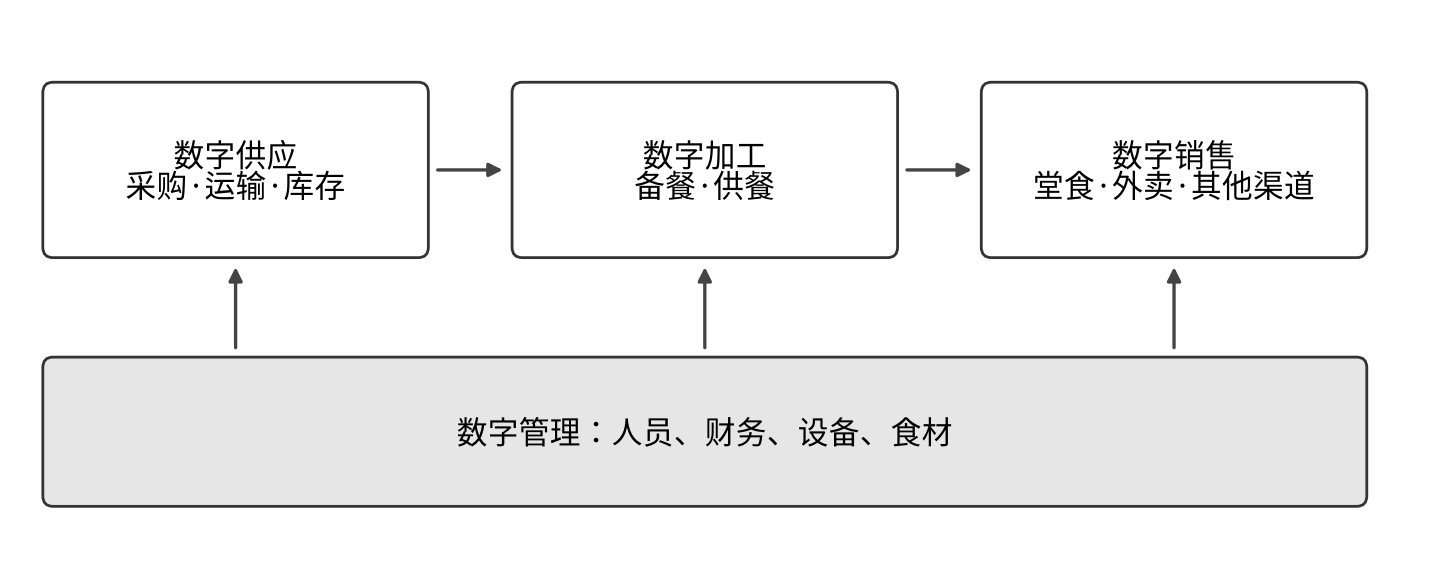
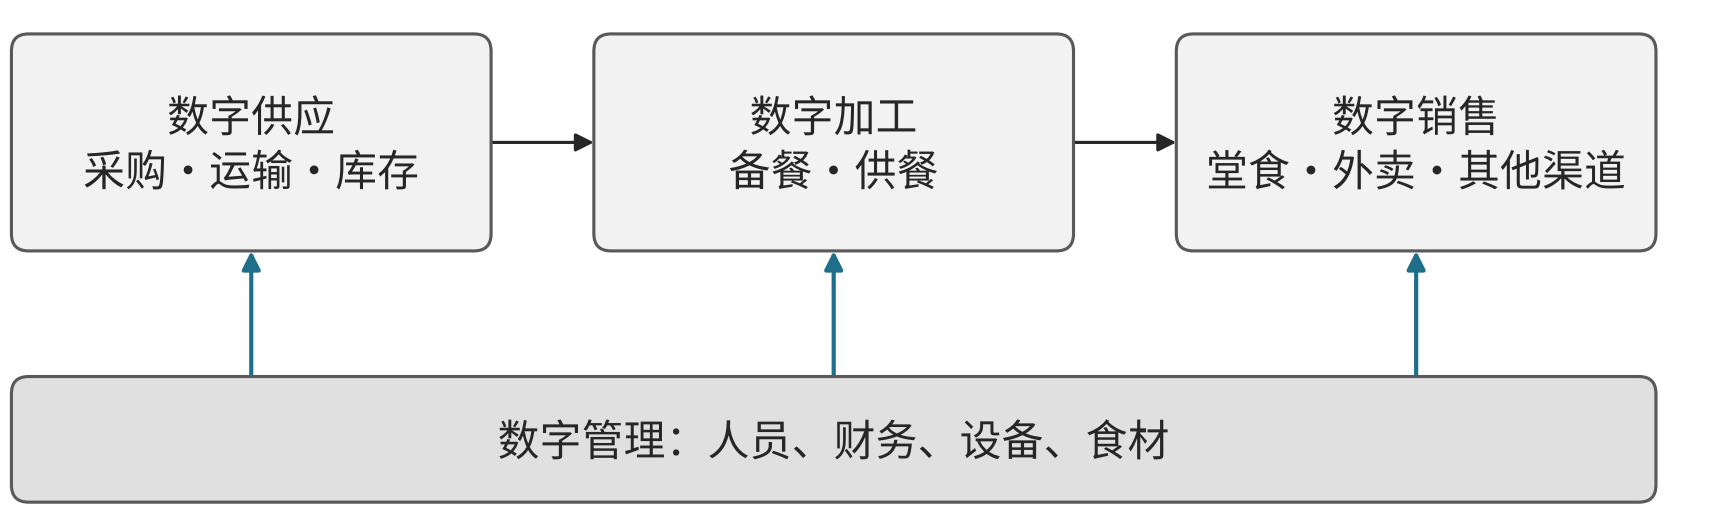
fig: 中册 9 幅重绘示意图按 1713px/300dpi 经 figlib 重出（图10-1、10-2、17-1、17-2、17-6、18-3、18-4、18-5、20-1）
- scripts/redraw-middle-figures.py 改用 figlib：成图 14.504cm、300dpi，图内文字 ≥9pt，灰阶加 #1F6F8B，不画图题；文字内容不变
- 更新 sources.json 中 9 条 asset_sha256
- 前后对比图：docs/figure-compare/dpi9/

diff --git a/scripts/redraw-middle-figures.py b/scripts/redraw-middle-figures.py
@@ -1,56 +1,77 @@
-import matplotlib; matplotlib.use("Agg")
-import matplotlib.pyplot as plt
-from matplotlib.patches import FancyBboxPatch
-from matplotlib import font_manager as fm
-fp="/usr/share/fonts/opentype/noto/NotoSansCJK-Regular.ttc"
-fm.fontManager.addfont(fp); plt.rcParams["font.family"]=fm.FontProperties(fname=fp).get_name()
-import os; OUT=os.path.join(os.path.dirname(__file__),"..","中册-行业解决方案","assets")+"/"
-def box(ax,x,y,w,h,t,fc="white",fs=11,bold=False):
-    ax.add_patch(FancyBboxPatch((x,y),w,h,boxstyle="round,pad=0.02,rounding_size=0.08",fc=fc,ec="#333",lw=1))
-    ax.text(x+w/2,y+h/2,t,ha="center",va="center",fontsize=fs,weight="bold" if bold else "normal",wrap=True)
-def arrow(ax,x1,y1,x2,y2):
-    ax.annotate("",(x2,y2),(x1,y1),arrowprops=dict(arrowstyle="-|>",color="#444",lw=1.2))
-def layers(name,rows,side=None,note=None):
-    # rows: top->bottom list of (label,[items])
-    W=10+(2 if side else 0); n=len(rows)
-    fig,ax=plt.subplots(figsize=(W*0.8,(n*1.5+0.6)*0.8)); ax.set_xlim(0,W); ax.set_ylim(0,n*1.5+0.4); ax.axis("off")
-    for i,(lab,items) in enumerate(rows):
-        y=(n-1-i)*1.5+0.3
-        box(ax,0.1,y,1.9,1.1,lab,fc="#d9d9d9",bold=True)
-        k=len(items); w=(7.7-0.15*(k-1))/k
-        for j,it in enumerate(items): box(ax,2.2+j*(w+0.15),y+0.1,w,0.9,it,fs=10)
-        if i<n-1: arrow(ax,6.05,y-0.05,6.05,y+0.05) 
-    if side:
-        lab,items=side; H=n*1.5-0.4
-        box(ax,10.2,0.3,1.7,H,"",fc="#efefef")
-        ax.text(11.05,0.3+H-0.3,lab,ha="center",va="top",fontsize=11,weight="bold")
-        for j,it in enumerate(items): ax.text(11.05,0.3+H-0.9-j*0.55,it,ha="center",va="top",fontsize=10)
-    fig.savefig(OUT+name,dpi=200,bbox_inches="tight",facecolor="white"); plt.close(fig)
+"""中册 9 幅"重绘"示意图（redraw-*.png）。按全书配图规范经 figlib 绘制：
+成图宽 14.504cm、300dpi（1713px），图内文字不小于 9pt，黑白灰加强调色 #1F6F8B，Noto Sans CJK SC，图题不入图。
+用法：python3 scripts/redraw-middle-figures.py（结尾打印"无残留溢出"才算通过）。"""
+import os, sys
+HERE = os.path.dirname(os.path.abspath(__file__))
+sys.path.insert(0, os.path.join(HERE, 'figures'))
+import figlib
+from figlib import Fig, FILL2, ACCENT, LW
+OUT = os.path.join(HERE, '..', '中册-行业解决方案', 'assets') + '/'
 
-layers("redraw-数字金融体系示意.png",[("服务",["渠道与客户服务","业务流程","运营支持"]),("能力",["数据治理","专业模型与业务规则","研发运维"]),("数字基础",["网络与存储","数据库","身份与接口"])],side=("治理",["安全","合规","风险管理","数据生命周期"]))
-layers("redraw-智慧农业三层框架示意.png",[("应用层",["生产管理","产销与流通","溯源与社会化服务"]),("运算层",["数据","农业知识","算法与专业模型"]),("感知与执行层",["环境与遥感感知","农机与执行器","市场信息"])])
-layers("redraw-数字乡村框架示意.png",[("建设领域",["智慧农业","乡村产业","乡村治理","公共服务"]),("两大基础",["数字基础设施","数据资源"])])
-layers("redraw-智能云服务分层示意.png",[("AISaaS",["面向具体应用"]),("MaaS",["模型能力服务化"]),("AIPaaS",["数据","模型开发","部署流程"]),("AIIaaS",["算力","网络","存储"])])
-layers("redraw-实时互动技术构成示意.png",[("共生技术",["终端呈现","课件与白板","交互操作"]),("专业组件",["音视频处理","信令","数据处理"]),("专有基础设施",["实时网络","边缘计算"])])
-layers("redraw-数字政府一体化框架示意.png",[("驱动与牵引",["体制机制驱动","履职场景牵引"]),("业务应用",["一网通办","一网统管","一网协同"]),("两大支撑",["政务数据","政务平台"])],side=("两大保障",["运维运营","安全防护"]))
+
+def done(f, name):
+    f.fit(name); f.save(OUT + name); print(name)
+
+
+def layers(name, rows, side=None):
+    """rows 自上而下 (层名, [条目])；side=(标题, [条目]) 为右侧贯穿栏。"""
+    n = len(rows); rh, g, m = 1.3, 0.45, 0.1
+    h = 0.2 + n * rh + (n - 1) * g + 0.2
+    f = Fig(h)
+    right = (LW - m - 3.0 - 0.3) if side else (LW - m)
+    lab_w = 3.0; x0 = m + lab_w + 0.2; avail = right - x0
+    for i, (lab, items) in enumerate(rows):
+        y = h - 0.2 - rh - i * (rh + g)
+        f.box(m, y, lab_w, rh, lab, fill=FILL2, bold=True, fs=10)
+        k = len(items); w = (avail - 0.2 * (k - 1)) / k
+        for j, it in enumerate(items):
+            f.box(x0 + j * (w + 0.2), y + 0.08, w, rh - 0.16, it, fs=10)
+        if i < n - 1:
+            xa = x0 + avail / 2
+            f.arrow((xa, y - g + 0.06), (xa, y - 0.06))
+    if side:
+        lab, items = side; sx = LW - m - 3.0; top = h - 0.2; bot = 0.2
+        f.box(sx, bot, 3.0, top - bot, '', accent=True)
+        f.text(sx + 1.5, top - 0.4, lab, color=ACCENT, bold=True, fs=10)
+        k = len(items); ih = 0.62; gap = (top - bot - 0.8 - k * ih) / (k + 1)
+        for j, it in enumerate(items):
+            f.box(sx + 0.25, top - 0.8 - (j + 1) * gap - (j + 1) * ih, 2.5, ih, it, accent=True, fill='white', fs=9.5)
+    done(f, name)
+
+
+layers("redraw-数字金融体系示意.png", [("服务", ["渠道与客户服务", "业务流程", "运营支持"]), ("能力", ["数据治理", "专业模型与业务规则", "研发运维"]), ("数字基础", ["网络与存储", "数据库", "身份与接口"])], side=("治理", ["安全", "合规", "风险管理", "数据生命周期"]))
+layers("redraw-智慧农业三层框架示意.png", [("应用层", ["生产管理", "产销与流通", "溯源与社会化服务"]), ("运算层", ["数据", "农业知识", "算法与专业模型"]), ("感知与执行层", ["环境与遥感感知", "农机与执行器", "市场信息"])])
+layers("redraw-数字乡村框架示意.png", [("建设领域", ["智慧农业", "乡村产业", "乡村治理", "公共服务"]), ("两大基础", ["数字基础设施", "数据资源"])])
+layers("redraw-智能云服务分层示意.png", [("AISaaS", ["面向具体应用"]), ("MaaS", ["模型能力服务化"]), ("AIPaaS", ["数据", "模型开发", "部署流程"]), ("AIIaaS", ["算力", "网络", "存储"])])
+layers("redraw-实时互动技术构成示意.png", [("共生技术", ["终端呈现", "课件与白板", "交互操作"]), ("专业组件", ["音视频处理", "信令", "数据处理"]), ("专有基础设施", ["实时网络", "边缘计算"])])
+layers("redraw-数字政府一体化框架示意.png", [("驱动与牵引", ["体制机制驱动", "履职场景牵引"]), ("业务应用", ["一网通办", "一网统管", "一网协同"]), ("两大支撑", ["政务数据", "政务平台"])], side=("两大保障", ["运维运营", "安全防护"]))
+
 # 电信变革路径
-fig,ax=plt.subplots(figsize=(9,3.6)); ax.set_xlim(0,11); ax.set_ylim(0,4.4); ax.axis("off")
-for i,(lab,a,b) in enumerate([("基础设施","网络与资源","自感知、自调度"),("技术","平台与运维","数据与模型驱动"),("服务","客户服务","按需、主动服务")]):
-    y=3.1-i*1.4; box(ax,0.1,y,1.8,0.9,lab,fc="#d9d9d9",bold=True); box(ax,2.4,y,3.0,0.9,a); box(ax,7.4,y,3.4,0.9,b); arrow(ax,5.5,y+0.45,7.3,y+0.45)
-ax.text(3.9,4.25,"现状",ha="center",fontsize=11); ax.text(9.1,4.25,"智能化方向",ha="center",fontsize=11)
-fig.savefig(OUT+"redraw-电信业智能化路径示意.png",dpi=200,bbox_inches="tight",facecolor="white"); plt.close(fig)
+f = Fig(5.0)
+f.text(5.4, 4.6, "现状", fs=10, bold=True); f.text(12.3, 4.6, "智能化方向", fs=10, bold=True, color=ACCENT)
+for i, (lab, a, b) in enumerate([("基础设施", "网络与资源", "自感知、自调度"), ("技术", "平台与运维", "数据与模型驱动"), ("服务", "客户服务", "按需、主动服务")]):
+    y = 3.2 - i * 1.4
+    f.box(0.1, y, 2.6, 1.0, lab, fill=FILL2, bold=True, fs=10)
+    f.box(3.2, y, 4.4, 1.0, a, fs=10)
+    f.box(9.6, y, 5.3, 1.0, b, fs=10, accent=True)
+    f.arrow((7.6, y + 0.5), (9.6, y + 0.5), accent=True)
+done(f, "redraw-电信业智能化路径示意.png")
+
 # 餐饮产业链
-fig,ax=plt.subplots(figsize=(9,3.4)); ax.set_xlim(0,11); ax.set_ylim(0,4); ax.axis("off")
-for j,(t,s) in enumerate([("数字供应","采购·运输·库存"),("数字加工","备餐·供餐"),("数字销售","堂食·外卖·其他渠道")]):
-    box(ax,0.2+j*3.7,2.2,3.0,1.3,t+"\n"+s,fs=11)
-    if j<2: arrow(ax,3.25+j*3.7,2.85,3.85+j*3.7,2.85)
-box(ax,0.2,0.3,10.4,1.1,"数字管理：人员、财务、设备、食材",fc="#e6e6e6",fs=11)
-for j in range(3): arrow(ax,1.7+j*3.7,1.45,1.7+j*3.7,2.15)
-fig.savefig(OUT+"redraw-餐饮产业链示意.png",dpi=200,bbox_inches="tight",facecolor="white"); plt.close(fig)
+f = Fig(4.6)
+for j, (t, s) in enumerate([("数字供应", "采购·运输·库存"), ("数字加工", "备餐·供餐"), ("数字销售", "堂食·外卖·其他渠道")]):
+    f.box(0.1 + j * 5.1, 2.4, 4.2, 1.9, t + "\n" + s, fs=10, wrapw=False)
+    if j < 2: f.arrow((4.3 + j * 5.1, 3.35), (5.2 + j * 5.1, 3.35))
+f.box(0.1, 0.2, 14.4, 1.1, "数字管理：人员、财务、设备、食材", fill=FILL2, fs=10, accent=False)
+for j in range(3): f.arrow((2.2 + j * 5.1, 1.3), (2.2 + j * 5.1, 2.4), accent=True)
+done(f, "redraw-餐饮产业链示意.png")
+
 # 餐饮矩阵
-rows=[("数字供应","采购、运输、库存","供应商与食材记录"),("数字加工","备餐、供餐","工序与出品记录"),("数字管理","人、财、设备、食材","经营与资源记录"),("数字销售","堂食、外卖、其他渠道","订单与顾客记录")]
-fig,ax=plt.subplots(figsize=(9,3.6)); ax.set_xlim(0,11); ax.set_ylim(0,5.2); ax.axis("off")
-for j,h in enumerate(["环节","主要对象","数字化内容"]): box(ax,0.1+j*3.65,4.2,3.5,0.8,h,fc="#d9d9d9",bold=True)
-for i,r in enumerate(rows):
-    for j,c in enumerate(r): box(ax,0.1+j*3.65,3.2-i*1.0,3.5,0.8,c,fc="#f2f2f2" if j==0 else "white")
-fig.savefig(OUT+"redraw-餐饮数字化环节矩阵示意.png",dpi=200,bbox_inches="tight",facecolor="white"); plt.close(fig)
+rows = [("数字供应", "采购、运输、库存", "供应商与食材记录"), ("数字加工", "备餐、供餐", "工序与出品记录"), ("数字管理", "人、财、设备、食材", "经营与资源记录"), ("数字销售", "堂食、外卖、其他渠道", "订单与顾客记录")]
+f = Fig(6.0); cw = (LW - 0.2 - 0.3) / 3
+for j, hd in enumerate(["环节", "主要对象", "数字化内容"]): f.box(0.1 + j * (cw + 0.15), 4.9, cw, 0.9, hd, fill=FILL2, bold=True, fs=10)
+for i, r in enumerate(rows):
+    for j, c in enumerate(r): f.box(0.1 + j * (cw + 0.15), 3.8 - i * 1.15, cw, 0.95, c, fs=10, fill=None if j == 0 else 'white')
+done(f, "redraw-餐饮数字化环节矩阵示意.png")
+
+print('\n'.join(figlib.ISSUES) or '无残留溢出')
